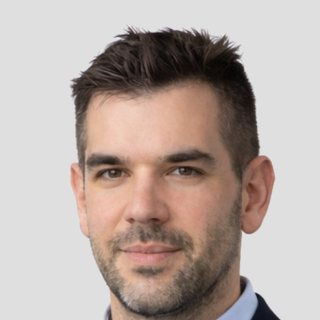
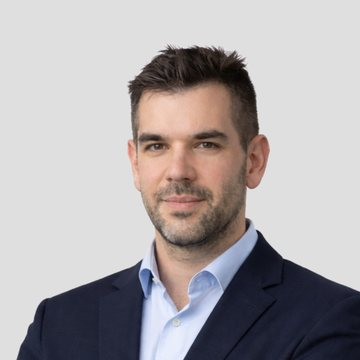
Soya News: head-and-shoulders photo, tap for the full picture, LinkedIn bio link
1. The photo is recropped to show Ran's head and shoulders, in a rounded
   square instead of a tight circle, so nothing is cut off.
2. Tapping it opens the full photo in a window with "Ran's bio on
   LinkedIn" and a Close button; tapping outside also closes it.
3. "Ran's bio on LinkedIn" is also linked under Soya's introduction, in
   English, Hebrew and French.

Claude-Session: https://claude.ai/code/session_01BKUdjE75PAXmj9ATtLCMnn

diff --git a/apps/2026-11-21-soya-news/app.js b/apps/2026-11-21-soya-news/app.js
@@ -6,7 +6,7 @@
   'use strict';
 
   var K = { lang: 'soya-news-lang', age: 'soya-news-age', mood: 'soya-news-mood', nick: 'soya-news-nick', seen: 'soya-news-seen', quiz: 'soya-news-quiz', rate: 'soya-news-rate', gender: 'soya-news-gender' };
-  var VERSION = '2026-11-21.6';
+  var VERSION = '2026-11-21.7';
   var LANGS = ['en', 'he', 'fr'];
   var BANDS = [{ id: 'cub', from: 6, to: 8, pose: 'bell' }, { id: 'explorer', from: 9, to: 12, pose: 'wow' }, { id: 'teen', from: 13, to: 17, pose: 'glasses' }, { id: 'grown', from: 18, to: 25, pose: 'crown' }, { id: 'owner', from: 26, to: 66, pose: 'sit' }];
   var MAX_AGE = 66;
@@ -32,7 +32,7 @@
       cheer: ['Yes! You got it!', 'Clever cat!', 'Purr-fect!'], oops: ['Oops! Try to remember it.', 'Almost! Now you know.'], rateQ: 'How clear was this?', rateThanks: 'Thanks! Soya will use this to explain better.', stars: function (n) { return n + ' of 5'; },
       bugTitle: 'Something wrong or confusing?', bugLabel: 'What happened?', bugSend: 'Send the report', bugAdds: function (v) { return 'We also send the app version (' + v + '), the language and the age level, nothing else.'; }, bugThanks: 'Thank you. We will look at it.', bugGithub: 'Grown-ups can also report it on GitHub',
       aboutTitle: 'Meet my human', about: 'This is Ran, my human. Every morning he goes to work so that I always have tuna in my bowl. At work he is the chief technology officer of a software company, where he fixes big, tricky computer systems. At home he is the proud dad of a smart 9-year-old, and he made Soya News so small cats and big cats can understand the world together. If you like it, share it with your kids!',
-      treatTitle: "Soya's treat box", treat: 'Buy Soya a tuna can', treatNote: 'Soya News is free and has no ads. If it helps your family, a grown-up can buy Soya a treat. It keeps the stories coming.', treatSoon: "Soya's treat box opens soon.", grownups: 'For grown-ups', ranAlt: 'Ran, Soya\'s human', share: 'Share Soya News', shared: 'Link copied. Thank you for sharing!', shareText: 'Soya the cat explains the world to kids, at their age.',
+      treatTitle: "Soya's treat box", treat: 'Buy Soya a tuna can', treatNote: 'Soya News is free and has no ads. If it helps your family, a grown-up can buy Soya a treat. It keeps the stories coming.', treatSoon: "Soya's treat box opens soon.", bio: "Ran's bio on LinkedIn", fullPhoto: 'Tap to see the full photo', close: 'Close', grownups: 'For grown-ups', ranAlt: 'Ran, Soya\'s human', share: 'Share Soya News', shared: 'Link copied. Thank you for sharing!', shareText: 'Soya the cat explains the world to kids, at their age.',
       word: 'Word of the week', quiz: 'Quick quiz', right: 'Yes!', wrong: 'Not quite. The answer is:', source: 'Where this came from',
       mood: "Soya's mood", moods: { curious: 'Curious', silly: 'Silly', calm: 'Calm' },
       nick: 'What should Soya call you?', nickHint: 'A nickname only. It stays on this device.',
@@ -71,7 +71,7 @@
       cheer: ['כן! צדקתם!', 'חתול חכם!', 'מושלם!'], oops: ['אופס! תזכרו את זה.', 'כמעט! עכשיו אתם יודעים.'], rateQ: 'כמה זה היה ברור?', rateThanks: 'תודה! סויה ישתמש בזה כדי להסביר טוב יותר.', stars: function (n) { return n + ' מתוך 5'; },
       bugTitle: 'משהו לא עובד או לא ברור?', bugLabel: 'מה קרה?', bugSend: 'שולחים את הדיווח', bugAdds: function (v) { return 'אנחנו שולחים גם את גרסת האפליקציה (' + v + '), את השפה ואת רמת הגיל, ולא שום דבר אחר.'; }, bugThanks: 'תודה. נבדוק את זה.', bugGithub: 'מבוגרים יכולים לדווח גם ב־GitHub',
       aboutTitle: 'תכירו את הבן אדם שלי', about: 'זה רן, הבן אדם שלי. כל בוקר הוא הולך לעבודה כדי שתמיד תהיה לי טונה בקערה. בעבודה הוא מנהל הטכנולוגיה של חברת תוכנה, ומתקן שם מערכות מחשב גדולות ומסובכות. בבית הוא אבא גאה לילד חכם בן 9, והוא יצר את החדשות של סויה כדי שחתולים קטנים וחתולים גדולים יבינו את העולם יחד. אם אהבתם, שתפו עם הילדים שלכם!',
-      treatTitle: 'קופת הפינוקים של סויה', treat: 'קונים לסויה קופסת טונה', treatNote: 'החדשות של סויה בחינם ובלי פרסומות. אם זה עוזר למשפחה שלכם, מבוגר יכול לקנות לסויה פינוק. ככה הכתבות ממשיכות להגיע.', treatSoon: 'קופת הפינוקים של סויה נפתחת בקרוב.', grownups: 'למבוגרים', ranAlt: 'רן, הבן אדם של סויה', share: 'משתפים את החדשות של סויה', shared: 'הקישור הועתק. תודה ששיתפתם!', shareText: 'סויה החתול מסביר את העולם לילדים, בגובה העיניים שלהם.',
+      treatTitle: 'קופת הפינוקים של סויה', treat: 'קונים לסויה קופסת טונה', treatNote: 'החדשות של סויה בחינם ובלי פרסומות. אם זה עוזר למשפחה שלכם, מבוגר יכול לקנות לסויה פינוק. ככה הכתבות ממשיכות להגיע.', treatSoon: 'קופת הפינוקים של סויה נפתחת בקרוב.', bio: 'הביוגרפיה של רן בלינקדאין', fullPhoto: 'לוחצים כדי לראות את התמונה המלאה', close: 'סוגרים', grownups: 'למבוגרים', ranAlt: 'רן, הבן אדם של סויה', share: 'משתפים את החדשות של סויה', shared: 'הקישור הועתק. תודה ששיתפתם!', shareText: 'סויה החתול מסביר את העולם לילדים, בגובה העיניים שלהם.',
       word: 'המילה של השבוע', quiz: 'חידון קצר', right: 'נכון!', wrong: 'כמעט. התשובה היא:', source: 'מאיפה זה הגיע',
       mood: 'מצב הרוח של סויה', moods: { curious: 'סקרן', silly: 'מצחיק', calm: 'רגוע' },
       nick: 'איך סויה יקרא לכם?', nickHint: 'רק כינוי. הוא נשאר במכשיר הזה.',
@@ -110,7 +110,7 @@
       cheer: ['Oui ! Bravo !', 'Chat malin !', 'Parfait !'], oops: ['Oups ! Retiens-le bien.', 'Presque ! Maintenant tu sais.'], rateQ: 'C\'était clair ?', rateThanks: 'Merci ! Soya s\'en servira pour mieux expliquer.', stars: function (n) { return n + ' sur 5'; },
       bugTitle: 'Quelque chose ne va pas ou n\'est pas clair ?', bugLabel: 'Que s\'est-il passé ?', bugSend: 'Envoyer le signalement', bugAdds: function (v) { return 'Nous envoyons aussi la version de l\'appli (' + v + '), la langue et le niveau d\'âge, rien d\'autre.'; }, bugThanks: 'Merci. Nous allons regarder.', bugGithub: 'Les adultes peuvent aussi le signaler sur GitHub',
       aboutTitle: 'Voici mon humain', about: 'Voici Ran, mon humain. Chaque matin, il va au travail pour que j\'aie toujours du thon dans ma gamelle. Au travail, il est directeur technique d\'une entreprise de logiciels et répare de gros systèmes informatiques compliqués. À la maison, c\'est le papa fier d\'un enfant de 9 ans très malin, et il a créé Les Nouvelles de Soya pour que les petits chats et les grands chats comprennent le monde ensemble. Si tu aimes, partage avec tes enfants !',
-      treatTitle: 'La boîte à friandises de Soya', treat: 'Offrir une boîte de thon à Soya', treatNote: "Les Nouvelles de Soya sont gratuites et sans pub. Si elles aident ta famille, un adulte peut offrir une friandise à Soya. Ça fait venir les prochaines histoires.", treatSoon: 'La boîte à friandises de Soya ouvre bientôt.', grownups: 'Pour les adultes', ranAlt: 'Ran, l\'humain de Soya', share: 'Partager Les Nouvelles de Soya', shared: 'Lien copié. Merci de partager !', shareText: 'Soya le chat explique le monde aux enfants, à leur hauteur.',
+      treatTitle: 'La boîte à friandises de Soya', treat: 'Offrir une boîte de thon à Soya', treatNote: "Les Nouvelles de Soya sont gratuites et sans pub. Si elles aident ta famille, un adulte peut offrir une friandise à Soya. Ça fait venir les prochaines histoires.", treatSoon: 'La boîte à friandises de Soya ouvre bientôt.', bio: 'La bio de Ran sur LinkedIn', fullPhoto: 'Touche pour voir la photo entière', close: 'Fermer', grownups: 'Pour les adultes', ranAlt: 'Ran, l\'humain de Soya', share: 'Partager Les Nouvelles de Soya', shared: 'Lien copié. Merci de partager !', shareText: 'Soya le chat explique le monde aux enfants, à leur hauteur.',
       word: 'Le mot de la semaine', quiz: 'Petit quiz', right: 'Oui !', wrong: 'Presque. La réponse est :', source: "D'où ça vient",
       mood: "L'humeur de Soya", moods: { curious: 'Curieux', silly: 'Rigolo', calm: 'Calme' },
       nick: "Comment Soya doit-il t'appeler ?", nickHint: 'Juste un surnom. Il reste sur cet appareil.',
@@ -266,10 +266,14 @@
     return html + '<p><a href="' + esc(GITHUB) + '" target="_blank" rel="noopener">' + esc(t('bugGithub')) + '</a></p></section>';
   }
   /* Soya introduces his human (photo from Ran's company page, with his permission), then the treat box. */
+  var BIO = 'https://www.linkedin.com/in/ranlupovich';
   function aboutBox() {
     var link = window.SOYA_TREATS && /^https:\/\//.test(window.SOYA_TREATS.url || '') ? window.SOYA_TREATS.url : '';
-    return '<section class="panel about"><div class="meet">' + cat('happy', 72, 'meet-cat') + '<img class="ran" src="assets/ran.jpg" width="96" height="96" alt="' + esc(t('ranAlt')) + '"></div>' +
+    return '<section class="panel about"><div class="meet">' + cat('happy', 72, 'meet-cat') + '<button type="button" class="ran-btn" id="ran-photo" aria-label="' + esc(t('fullPhoto')) + '"><img class="ran" src="assets/ran.jpg" width="120" height="120" alt="' + esc(t('ranAlt')) + '"></button></div>' +
       '<h2>' + esc(t('aboutTitle')) + '</h2><p class="said">' + esc(t('about')) + '</p>' +
+      '<p><a class="bio" href="' + BIO + '" target="_blank" rel="noopener">' + esc(t('bio')) + '</a></p>' +
+      '<dialog class="photo-box" id="ran-dialog" aria-label="' + esc(t('ranAlt')) + '"><img src="assets/ran-full.jpg" width="669" height="1024" alt="' + esc(t('ranAlt')) + '">' +
+      '<div class="photo-actions"><a class="bio" href="' + BIO + '" target="_blank" rel="noopener">' + esc(t('bio')) + '</a><button type="button" class="ghost" id="ran-close">' + esc(t('close')) + '</button></div></dialog>' +
       '<button type="button" class="ghost" id="share">' + esc(t('share')) + '</button><p class="note" id="share-note" role="status" hidden></p></section>' +
       '<section class="panel treat"><div class="treat-row"><svg class="can" viewBox="0 0 64 56" width="64" height="56" aria-hidden="true"><ellipse cx="32" cy="44" rx="28" ry="9" fill="#8A93AD"/><rect x="4" y="18" width="56" height="26" fill="#B9C1D6"/><rect x="4" y="24" width="56" height="13" fill="#5EE0C1"/><path d="M16 30.5c5-6 15-7 24-3l6-4v14l-6-4c-9 4-19 3-24-3z" fill="#FF9E7A"/><ellipse cx="32" cy="18" rx="28" ry="9" fill="#D8DEEC"/><ellipse cx="32" cy="18" rx="20" ry="5.5" fill="#B9C1D6"/></svg>' +
       '<div><p class="label">' + esc(t('grownups')) + '</p><h2>' + esc(t('treatTitle')) + '</h2></div></div><p>' + esc(t('treatNote')) + '</p>' +
@@ -364,6 +368,12 @@
       if (text.length < 3) return say(t('ideaShort'));
       send({ kind: 'bug', text: text.slice(0, 500), version: VERSION, level: band(), issue: issueId || '' }).then(function () { box.value = ''; say(t('bugThanks')); }, function () { say(t('ideaFailed')); });
     });
+    var dlg = document.getElementById('ran-dialog'), opener = document.getElementById('ran-photo');
+    if (dlg && opener) {
+      opener.addEventListener('click', function () { if (dlg.showModal) dlg.showModal(); else window.open('assets/ran-full.jpg', '_blank'); });
+      document.getElementById('ran-close').addEventListener('click', function () { dlg.close(); opener.focus(); });
+      dlg.addEventListener('click', function (e) { if (e.target === dlg) dlg.close(); });
+    }
     document.getElementById('share').addEventListener('click', function () {
       var url = new URL('./', location.href).href, note = document.getElementById('share-note');
       function done() { note.hidden = false; note.textContent = t('shared'); }

diff --git a/apps/2026-11-21-soya-news/styles.css b/apps/2026-11-21-soya-news/styles.css
@@ -148,7 +148,13 @@ main{padding-bottom:140px}
 .buddy.side-l .buddy-say::after{left:30px;margin-left:0}
 /* Meet my human, and the treat box */
 .meet{display:flex;align-items:flex-end;gap:4px}
-.meet .ran{width:96px;height:96px;border-radius:50%;object-fit:cover;border:3px solid var(--sun);background:#E9EAEC}
+.ran-btn{padding:0;border:0;background:none;border-radius:22px;cursor:zoom-in;line-height:0}
+.meet .ran{width:120px;height:120px;border-radius:22px;object-fit:cover;border:3px solid var(--sun);background:#E9EAEC}
+.bio{display:inline-flex;align-items:center;min-height:var(--tap);font-weight:600;color:var(--sky)}
+.photo-box{border:0;padding:12px;border-radius:var(--r);background:var(--card);color:var(--ink);max-width:min(92vw,420px);max-height:92vh}
+.photo-box::backdrop{background:rgba(5,8,18,.8)}
+.photo-box img{display:block;width:100%;height:auto;max-height:72vh;object-fit:contain;border-radius:16px;background:#E9EAEC}
+.photo-actions{display:flex;flex-wrap:wrap;align-items:center;justify-content:space-between;gap:8px;margin-top:10px}
 .said{font-size:17px}
 .treat-row{display:flex;align-items:center;gap:12px}
 .treat-row h2{margin-top:2px}

diff --git a/apps/2026-11-21-soya-news/sw.js b/apps/2026-11-21-soya-news/sw.js
@@ -3,7 +3,7 @@
    It also checks for a new issue about once a day where the browser allows it (periodic background sync on an
    installed app), and shows a notification if one appears. Soycatory runs no push server; the 'push' handler is
    here for when one exists. Nothing is sent from here. */
-const VERSION = 'soyanews-20261121140000';
+const VERSION = 'soyanews-20261121143000';
 const META = 'soyanews-meta';
 
 const PRECACHE = [
@@ -14,6 +14,7 @@ const PRECACHE = [
   'soya-live.js',
   'donate.js',
   'assets/ran.jpg',
+  'assets/ran-full.jpg',
   'soya-3d.js',
   'vendor/three.module.min.js',
   'issues.json',

diff --git a/apps/2026-11-21-soya-news/README.md b/apps/2026-11-21-soya-news/README.md
@@ -21,7 +21,7 @@ Soya the cat explains the world to kids, truthfully and in plain words, and to t
 
 ## Meet my human, and the treat box
 
-At the end, Soya introduces Ran in his own voice ("Every morning he goes to work so that I always have tuna in my bowl"), with Ran's photo (`assets/ran.jpg`, cropped from his company's management page, at his request) beside a smiling Soya. Below it, a treat box marked "For grown-ups" has a "Buy Soya a tuna can" button. It opens the donation page set in `donate.js` (`window.SOYA_TREATS.url`, an https link to a page Ran owns, such as Buy Me a Coffee, Ko-fi or PayPal.me). While the link is empty, the box says it opens soon. No payment passes through the app.
+At the end, Soya introduces Ran in his own voice ("Every morning he goes to work so that I always have tuna in my bowl"), with Ran's photo (`assets/ran.jpg`, head and shoulders, from his company's management page, at his request) beside a smiling Soya. Tapping the photo opens the full picture (`assets/ran-full.jpg`) with a link to his LinkedIn bio, which is also linked under the text. Below it, a treat box marked "For grown-ups" has a "Buy Soya a tuna can" button. It opens the donation page set in `donate.js` (`window.SOYA_TREATS.url`, an https link to a page Ran owns, such as Buy Me a Coffee, Ko-fi or PayPal.me). While the link is empty, the box says it opens soon. No payment passes through the app.
 
 ## Adding an issue
 
